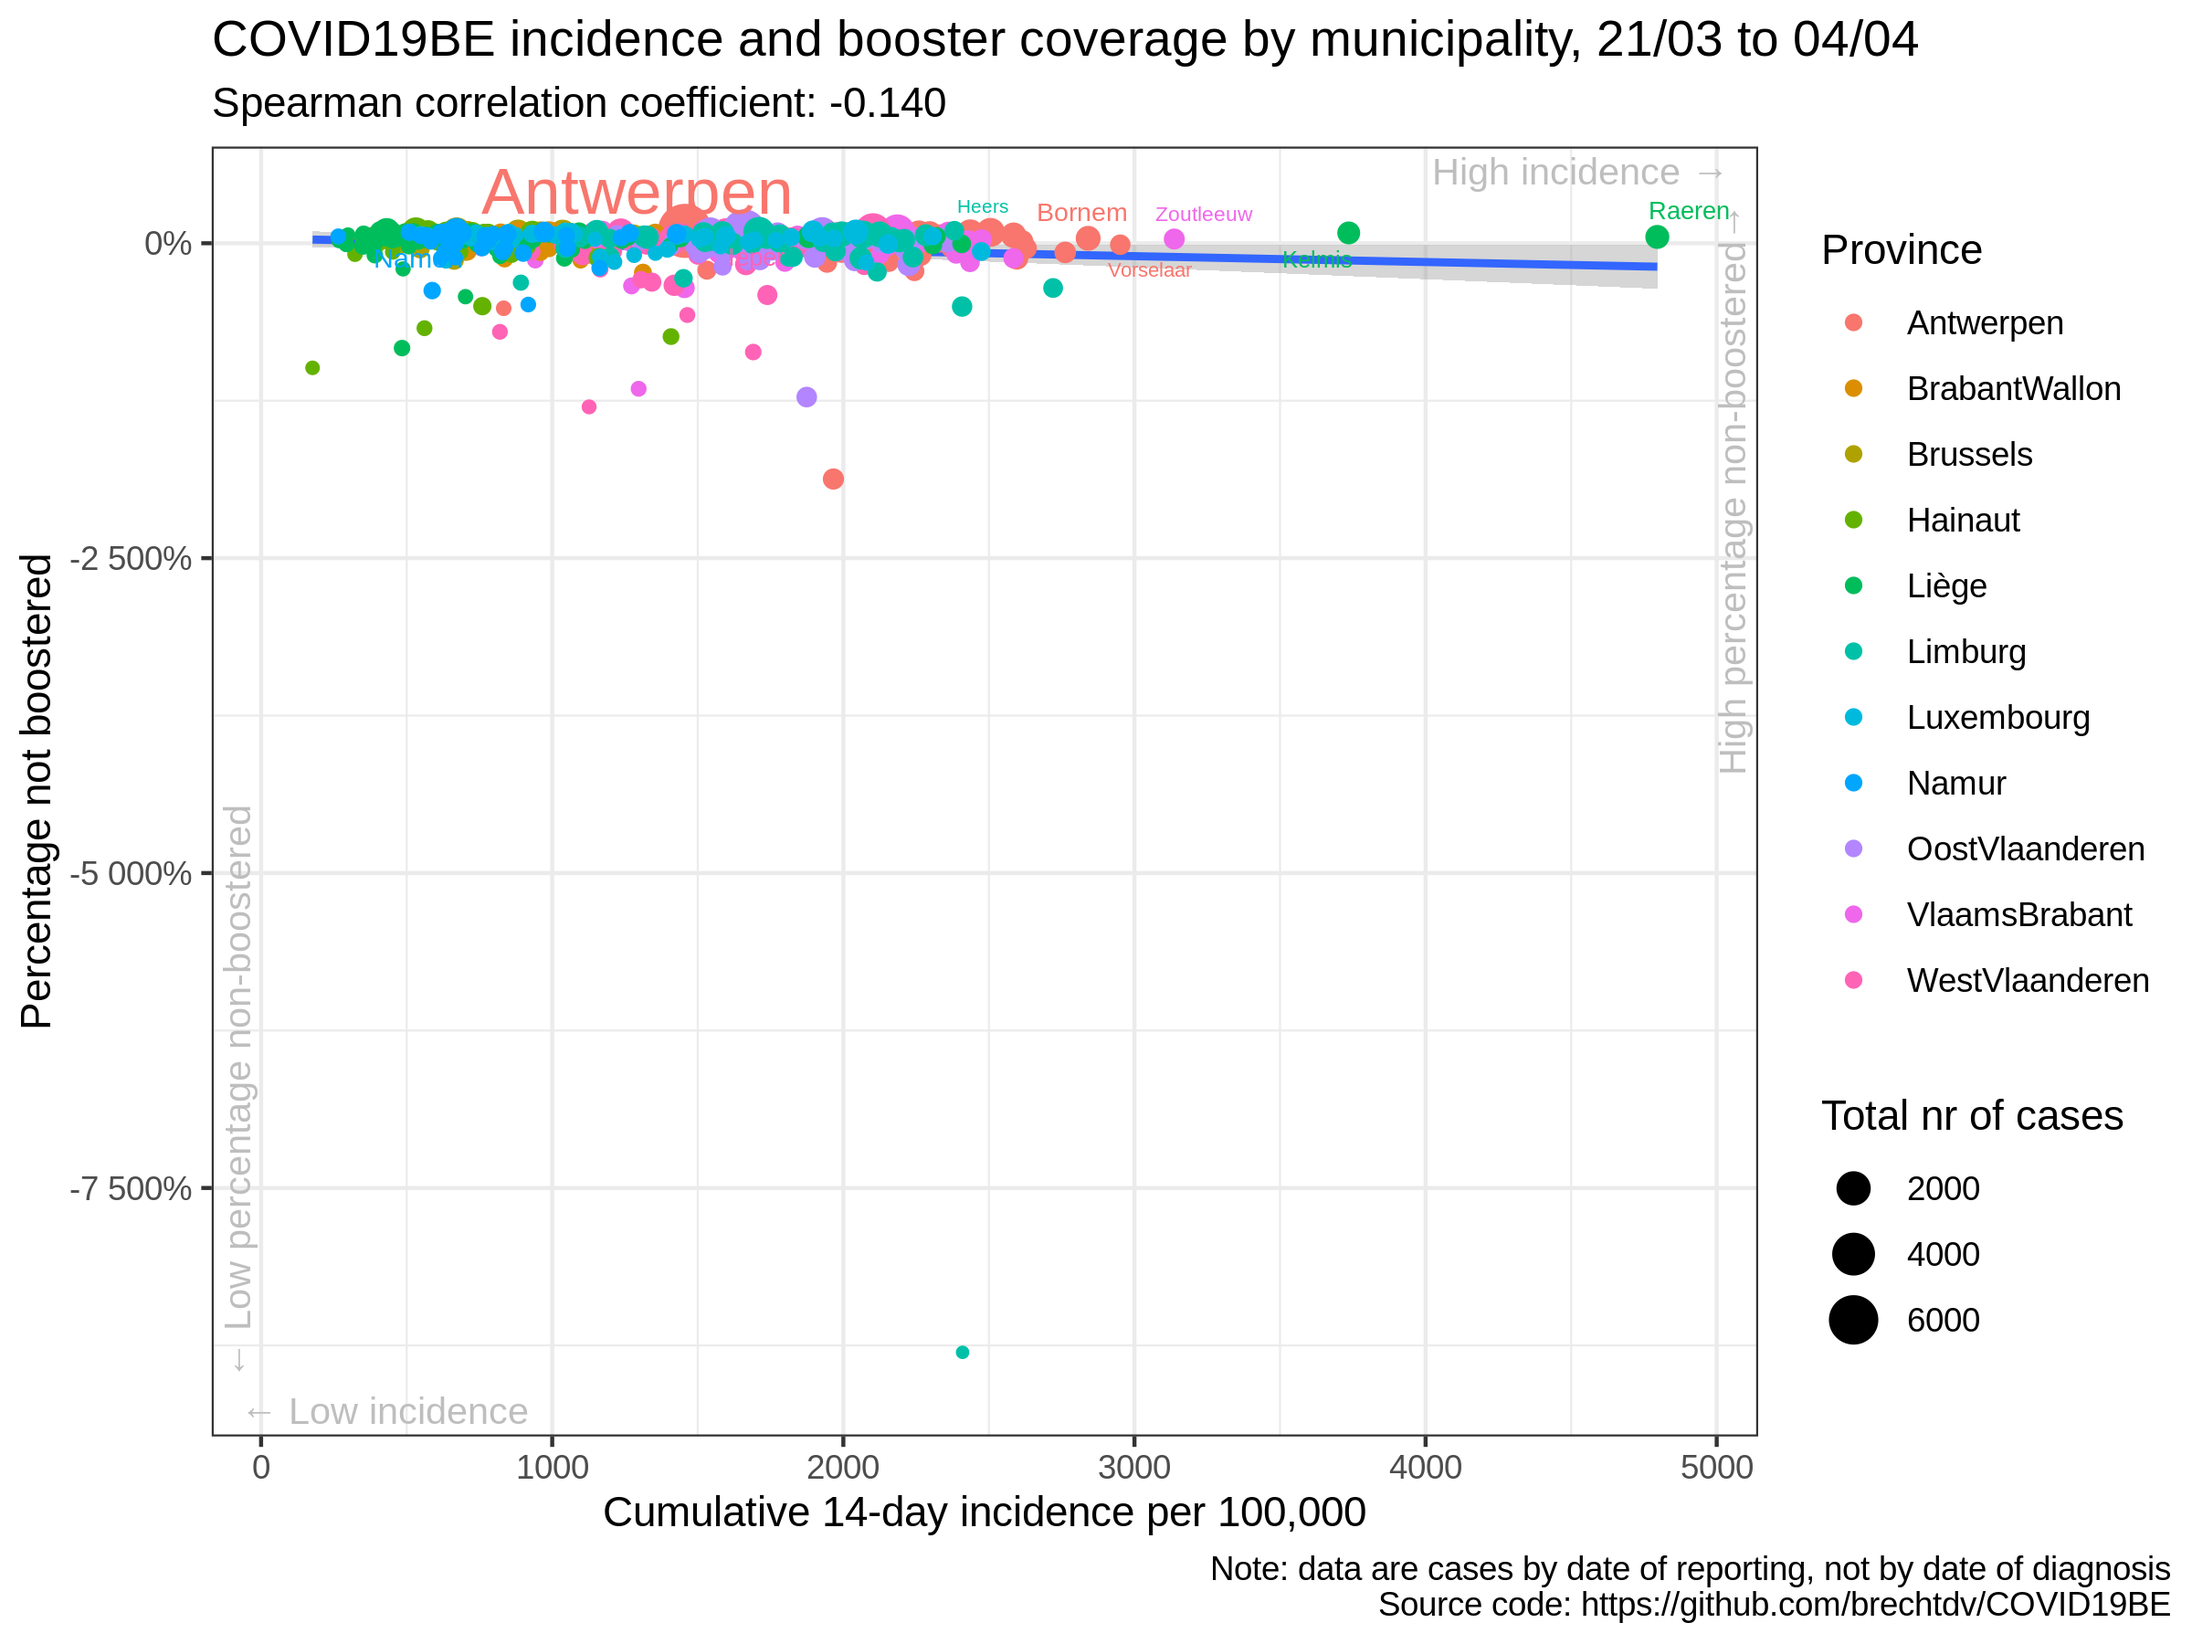
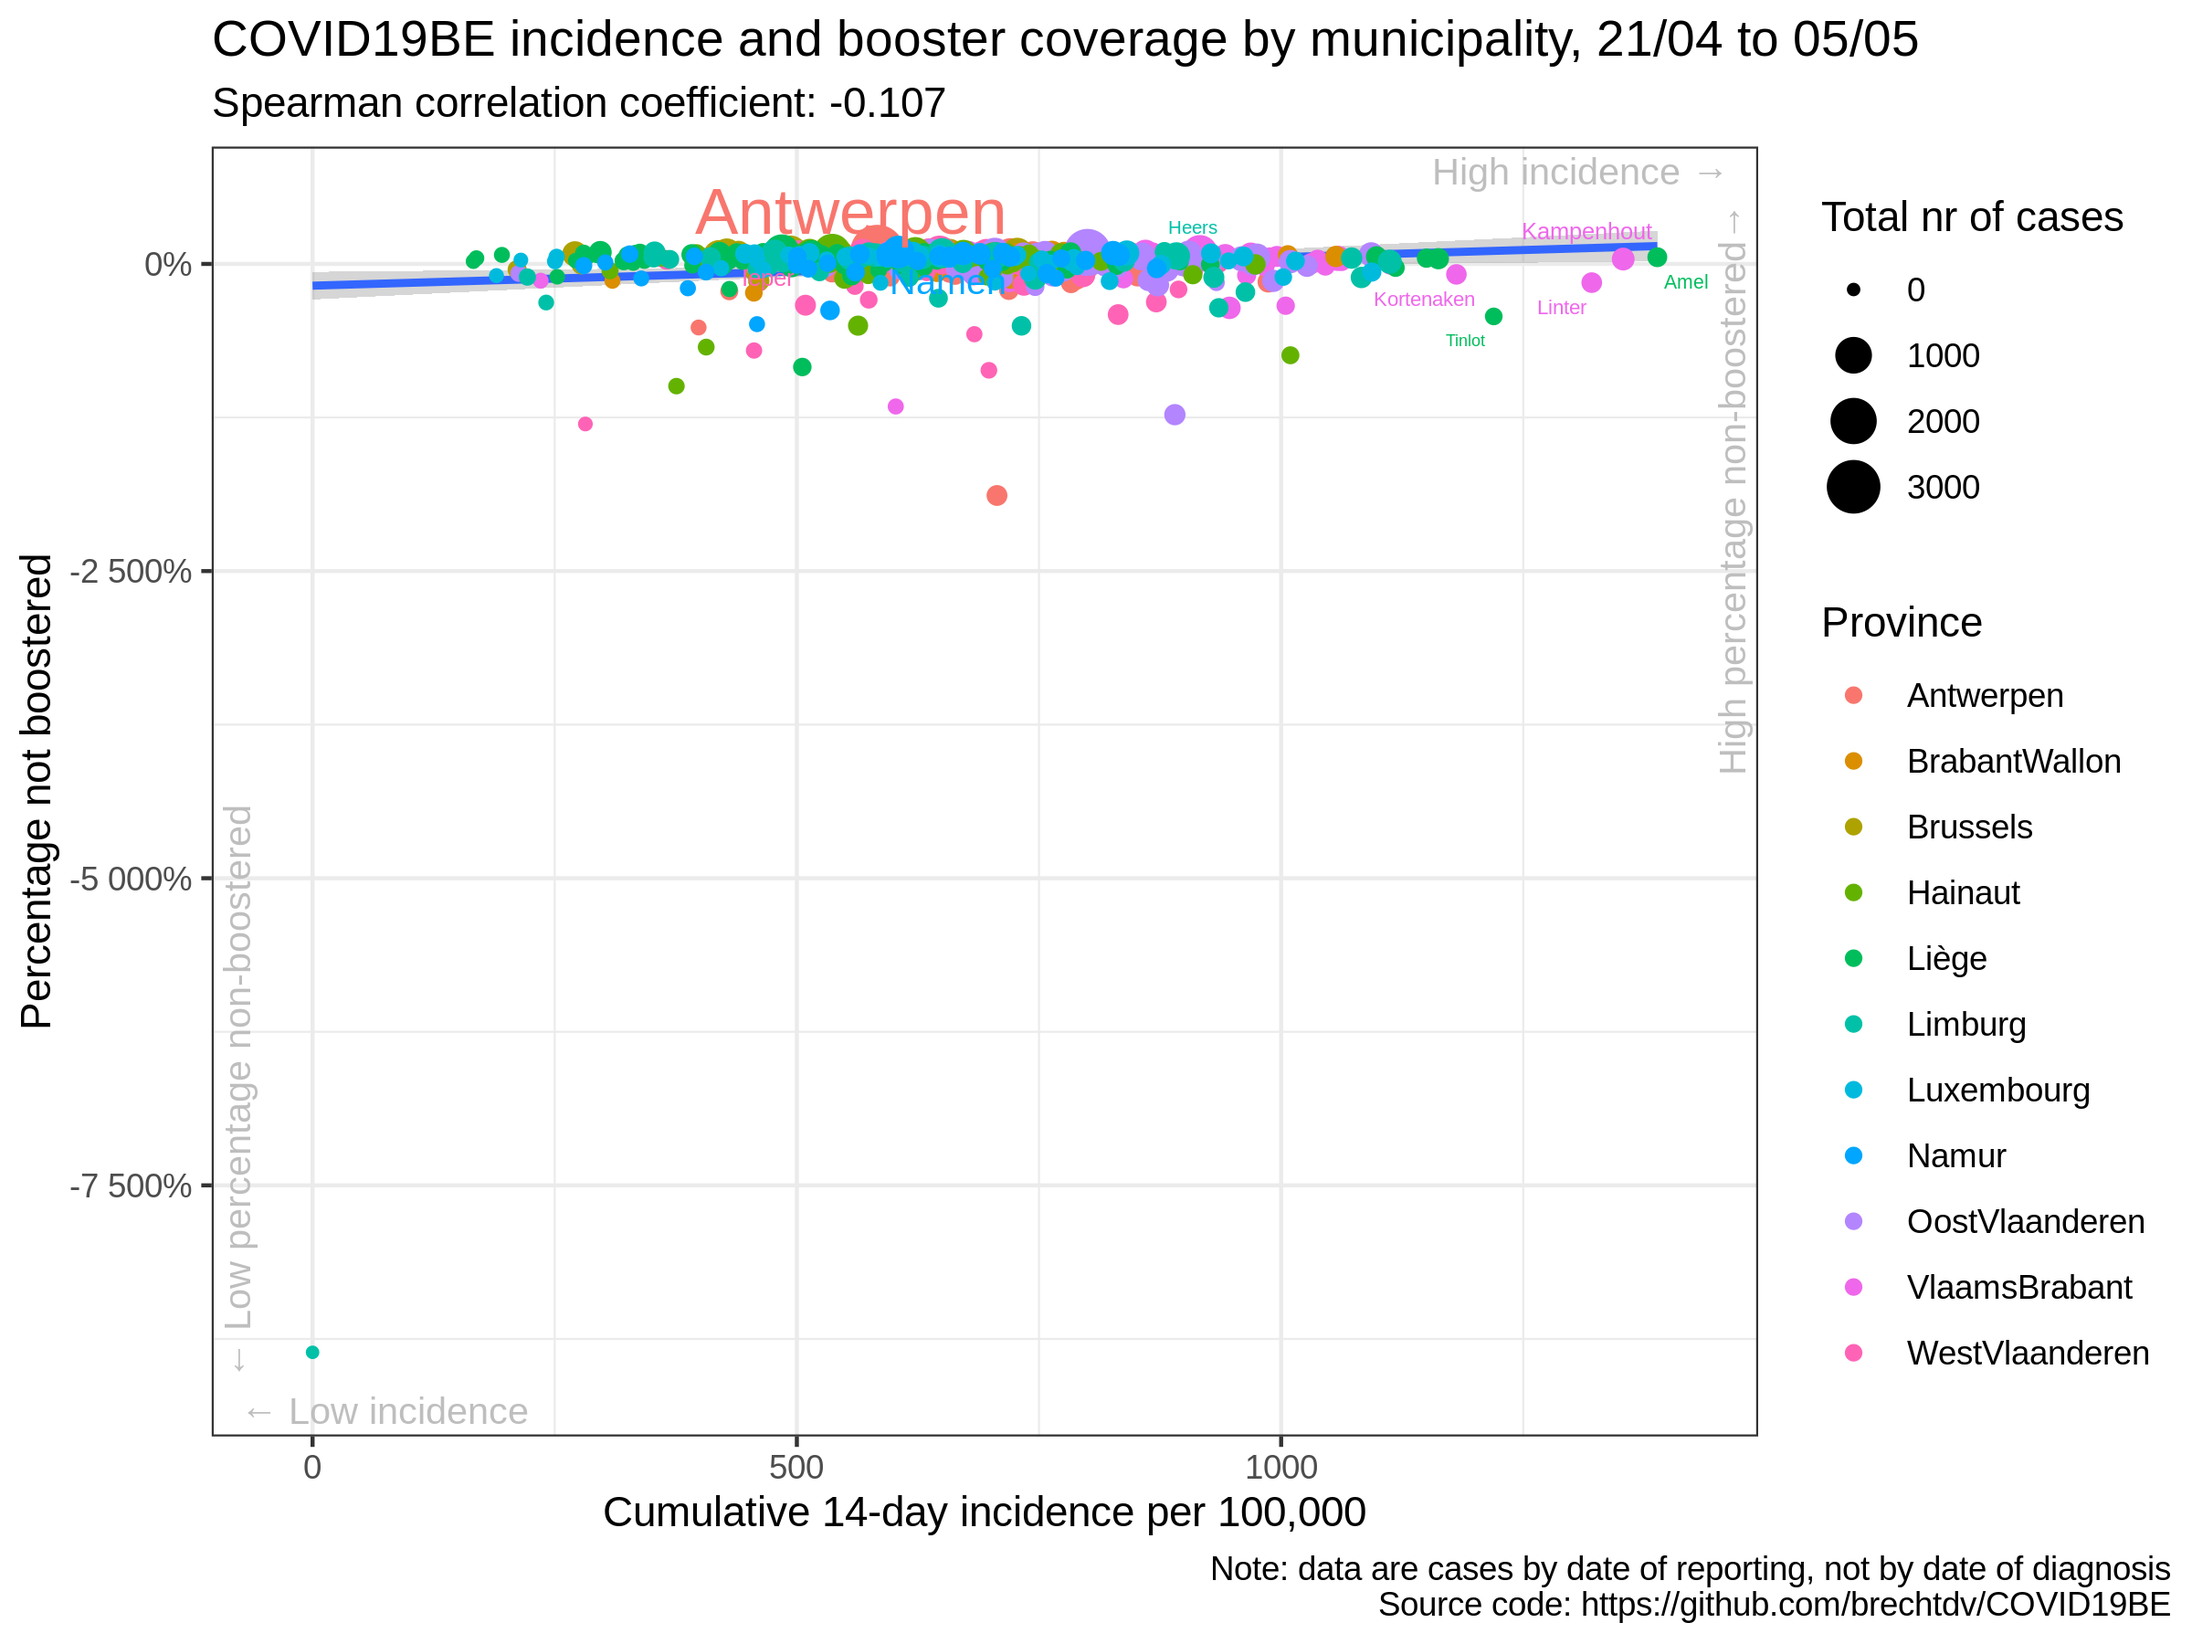
update situation

diff --git a/vaccination/README.md b/vaccination/README.md
@@ -17,35 +17,35 @@
 
 |                | estimate.rho | p.value |
 | :------------- | -----------: | ------: |
-| Antwerpen      |      \-0.041 |   0.739 |
-| BrabantWallon  |      \-0.180 |   0.367 |
-| Brussels       |      \-0.033 |   0.894 |
-| Hainaut        |      \-0.021 |   0.861 |
-| Liège          |      \-0.105 |   0.341 |
-| Limburg        |      \-0.127 |   0.422 |
-| Luxembourg     |      \-0.079 |   0.607 |
-| Namur          |      \-0.029 |   0.865 |
-| OostVlaanderen |        0.060 |   0.648 |
-| VlaamsBrabant  |      \-0.062 |   0.625 |
-| WestVlaanderen |        0.227 |   0.071 |
-| Belgium        |      \-0.085 |   0.041 |
+| Antwerpen      |      \-0.080 |   0.512 |
+| BrabantWallon  |        0.235 |   0.237 |
+| Brussels       |        0.209 |   0.389 |
+| Hainaut        |      \-0.066 |   0.590 |
+| Liège          |      \-0.328 |   0.002 |
+| Limburg        |      \-0.046 |   0.771 |
+| Luxembourg     |      \-0.148 |   0.337 |
+| Namur          |        0.279 |   0.094 |
+| OostVlaanderen |      \-0.043 |   0.746 |
+| VlaamsBrabant  |      \-0.095 |   0.450 |
+| WestVlaanderen |      \-0.108 |   0.395 |
+| Belgium        |      \-0.082 |   0.049 |
 
 ### Correlation cumulative incidence vs booster rate
 
 |                | estimate.rho | p.value |
 | :------------- | -----------: | ------: |
-| Antwerpen      |      \-0.039 |   0.751 |
-| BrabantWallon  |      \-0.176 |   0.377 |
-| Brussels       |      \-0.037 |   0.883 |
-| Hainaut        |      \-0.028 |   0.820 |
-| Liège          |      \-0.118 |   0.285 |
-| Limburg        |      \-0.126 |   0.423 |
-| Luxembourg     |      \-0.090 |   0.560 |
-| Namur          |      \-0.017 |   0.919 |
-| OostVlaanderen |        0.060 |   0.651 |
-| VlaamsBrabant  |      \-0.085 |   0.501 |
-| WestVlaanderen |        0.229 |   0.069 |
-| Belgium        |      \-0.140 |   0.001 |
+| Antwerpen      |      \-0.078 |   0.524 |
+| BrabantWallon  |        0.245 |   0.216 |
+| Brussels       |        0.165 |   0.498 |
+| Hainaut        |      \-0.067 |   0.586 |
+| Liège          |      \-0.332 |   0.002 |
+| Limburg        |      \-0.041 |   0.796 |
+| Luxembourg     |      \-0.156 |   0.312 |
+| Namur          |        0.285 |   0.087 |
+| OostVlaanderen |      \-0.032 |   0.810 |
+| VlaamsBrabant  |      \-0.098 |   0.434 |
+| WestVlaanderen |      \-0.112 |   0.378 |
+| Belgium        |      \-0.107 |   0.010 |
 
 ### Data source
 
